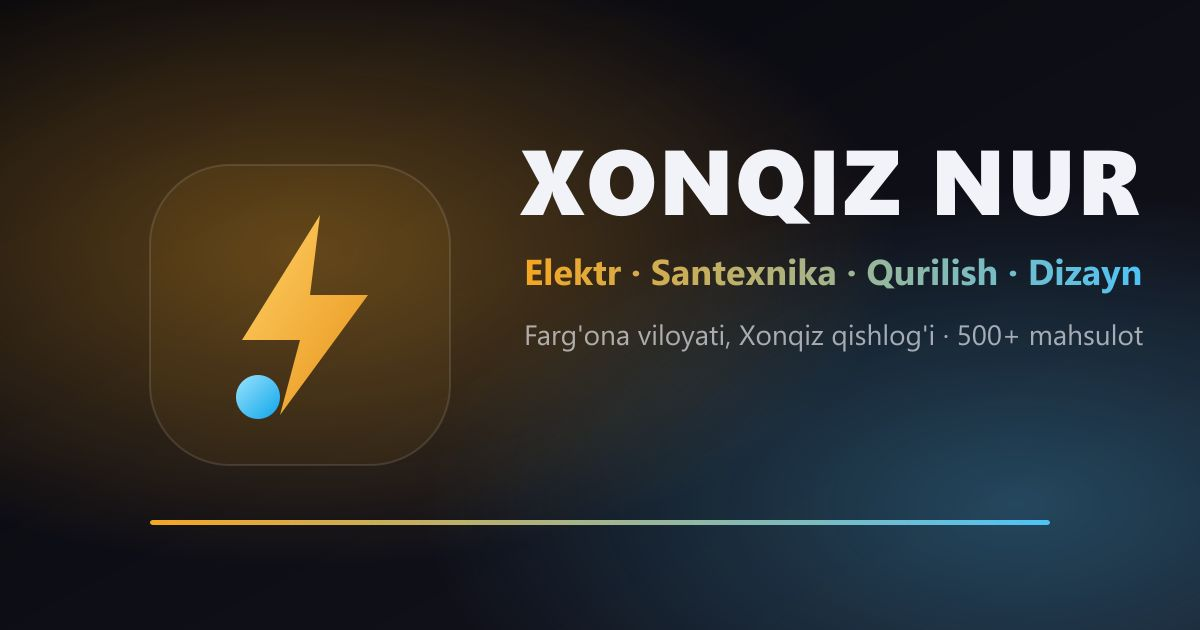
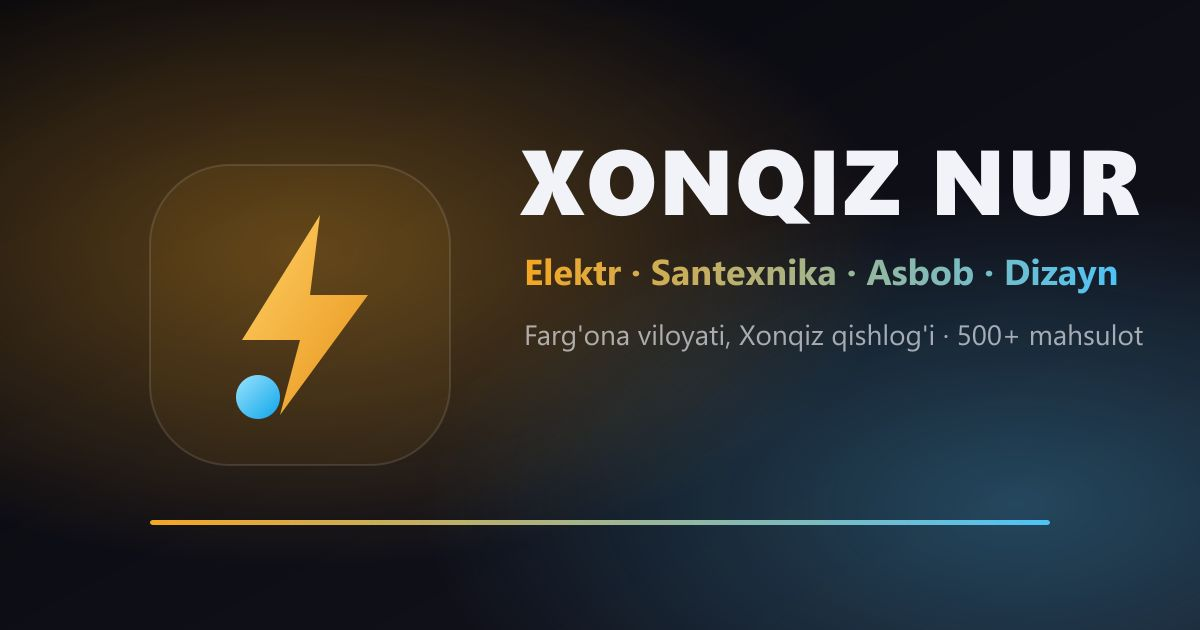
Update copy to 4 categories (drop construction), refresh og-image

Changed region(s): [[0.7092, 0.3921, 0.9558, 0.4825]]

diff --git a/src/app/services/translation.service.ts b/src/app/services/translation.service.ts
@@ -124,15 +124,15 @@ const UZ: Translations = {
   hero: {
     badge: "Farg'ona viloyati, Xonqiz qishlog'i",
     title1: 'Elektr, santexnika,',
-    title2: 'qurilish va dizayn',
+    title2: 'asbob va dizayn',
     title3: '— hammasi bir joyda',
-    desc: "Lyustradan sementgacha, trubadan dizayner chiroqlargacha — Xonqiz Nur biznesingiz va uyingiz uchun ishonchli ta'minot manbai. 5 yo'nalish, 500+ mahsulot turi.",
+    desc: "Lyustradan sementgacha, trubadan dizayner chiroqlargacha — Xonqiz Nur biznesingiz va uyingiz uchun ishonchli ta'minot manbai. 4 yo'nalish, 500+ mahsulot turi.",
     cta: "Biz bilan bog'laning",
     ctaSecondary: "Katalogni ko'rish",
     stats: [
       { value: 2021, suffix: '', label: 'Tashkil etilgan' },
       { value: 500, suffix: '+', label: 'Mahsulot turi' },
-      { value: 5, suffix: '', label: "Yo'nalish" },
+      { value: 4, suffix: '', label: "Yo'nalish" },
     ],
   },
   trust: {
@@ -143,7 +143,7 @@ const UZ: Translations = {
   },
   catalog: {
     title: 'Mahsulot katalogi',
-    subtitle: "5 yo'nalish, 500+ mahsulot turi",
+    subtitle: "4 yo'nalish, 500+ mahsulot turi",
     askCta: "Shu bo'yicha so'rang",
     notFound: 'Kerakli mahsulotni topa olmayapsizmi? Bizga yozing —',
     itemsLabel: 'turkum',
@@ -236,7 +236,7 @@ const UZ: Translations = {
     items: [
       { title: "Optom ta'minot", desc: "Ob'yekt va do'konlar uchun katta hajmda, qulay shartlarda." },
       { title: 'Ishonchli va barqaror', desc: '2021 yildan beri uzluksiz, kafolatli taʻminot.' },
-      { title: 'Keng assortiment', desc: "5 yo'nalish, 500+ mahsulot turi bitta manzilda." },
+      { title: 'Keng assortiment', desc: "4 yo'nalish, 500+ mahsulot turi bitta manzilda." },
       { title: 'Bepul maslahat', desc: 'Tajribali mutaxassislardan texnik yordam va tanlov boʻyicha maslahat.' },
     ],
     inlineCta: "Optom narxlar uchun bog'laning",
@@ -247,7 +247,7 @@ const UZ: Translations = {
     items: [
       { value: 2021, suffix: '', label: 'Tashkil etilgan yil' },
       { value: 500, suffix: '+', label: 'Mahsulot turi' },
-      { value: 5, suffix: '', label: 'Mahsulot yoʻnalishi' },
+      { value: 4, suffix: '', label: 'Mahsulot yoʻnalishi' },
       { value: 100, suffix: '%', label: 'Sifat kafolati' },
     ],
   },
@@ -256,9 +256,9 @@ const UZ: Translations = {
     subtitle: 'Xonqiz Nur — ishonchli hamkoringiz',
     desc1: "2021 yildan buyon Farg'ona viloyati, Xonqiz qishlog'ida elektr va santexnika mahsulotlari sohasida xizmat ko'rsatib kelamiz.",
     desc2: "\"XONQIZ NUR\" xususiy korxonasi sifatida rasmiy ro'yxatdan o'tgan va mahalliy aholi va tadbirkorlarning ishonchli ta'minot manbaiga aylangan.",
-    desc3: "Bugun Xonqiz Nur beshta yo'nalish — elektr, santexnika, qurilish materiallari, asbob-uskunalar va noyob dizaynli chiroqlar bo'yicha 500 dan ortiq mahsulot turini taklif etadi. Mahalliy quruvchilar, pudratchilar va do'konlar uchun ishonchli ulgurji va chakana ta'minotchiga aylandik.",
+    desc3: "Bugun Xonqiz Nur to'rtta yo'nalish — elektr, santexnika, asbob-uskunalar va noyob dizaynli chiroqlar bo'yicha 500 dan ortiq mahsulot turini taklif etadi. Mahalliy quruvchilar, pudratchilar va do'konlar uchun ishonchli ulgurji va chakana ta'minotchiga aylandik.",
     features: [
-      { title: 'Katta assortiment', desc: "500 dan ortiq turdagi mahsulotlar — 5 yo'nalishda" },
+      { title: 'Katta assortiment', desc: "500 dan ortiq turdagi mahsulotlar — 4 yo'nalishda" },
       { title: 'Sifat kafolati', desc: 'Faqat sertifikatli va sifatli tovarlar savdosi' },
       { title: 'Tez xizmat', desc: "Tez va qulay xizmat ko'rsatish" },
     ],
@@ -319,7 +319,7 @@ const UZ: Translations = {
     ],
   },
   footer: {
-    tagline: 'Elektr, santexnika, qurilish va dizayn taʻminoti',
+    tagline: 'Elektr, santexnika, asbob va dizayn taʻminoti',
     rights: 'Barcha huquqlar himoyalangan',
     nav: 'Sahifalar',
     contactTitle: 'Aloqa',
@@ -327,12 +327,12 @@ const UZ: Translations = {
   floating: { call: "Qo'ng'iroq qilish", telegram: 'Telegram orqali yozish' },
   seo: {
     home: {
-      title: "Xonqiz Nur — Elektr, santexnika, qurilish va dizayn mollari | Farg'ona",
-      description: "Xonqiz qishlog'idagi elektr, santexnika, qurilish materiallari, asbob-uskuna va dizayner chiroqlar do'koni. 500+ mahsulot turi. Optom va chakana. Tel [phone redacted].",
+      title: "Xonqiz Nur — Elektr, santexnika, asbob va dizayn mollari | Farg'ona",
+      description: "Xonqiz qishlog'idagi elektr, santexnika, asbob-uskuna va dizayner chiroqlar do'koni. 500+ mahsulot turi. Optom va chakana. Tel [phone redacted].",
     },
     catalog: {
-      title: 'Katalog — Elektr, santexnika, qurilish, asbob va chiroqlar | Xonqiz Nur',
-      description: "5 yo'nalish, 500+ mahsulot turi. Optom narxlar uchun bog'laning. Xonqiz Nur, Farg'ona.",
+      title: 'Katalog — Elektr, santexnika, asbob va chiroqlar | Xonqiz Nur',
+      description: "4 yo'nalish, 500+ mahsulot turi. Optom narxlar uchun bog'laning. Xonqiz Nur, Farg'ona.",
     },
     elektr: {
       title: 'Elektr mahsulotlari — lyustra, kabel, avtomat | Xonqiz Nur',
@@ -370,15 +370,15 @@ const RU: Translations = {
   hero: {
     badge: 'Ферганская область, сел. Хонкиз',
     title1: 'Электрика, сантехника,',
-    title2: 'стройка и дизайн',
+    title2: 'инструмент и дизайн',
     title3: '— всё в одном месте',
-    desc: 'От люстры до цемента, от трубы до дизайнерских светильников — Xonqiz Nur надёжный поставщик для вашего бизнеса и дома. 5 направлений, 500+ видов товаров.',
+    desc: 'От люстры до цемента, от трубы до дизайнерских светильников — Xonqiz Nur надёжный поставщик для вашего бизнеса и дома. 4 направления, 500+ видов товаров.',
     cta: 'Связаться с нами',
     ctaSecondary: 'Смотреть каталог',
     stats: [
       { value: 2021, suffix: '', label: 'Основан' },
       { value: 500, suffix: '+', label: 'Видов товаров' },
-      { value: 5, suffix: '', label: 'Направлений' },
+      { value: 4, suffix: '', label: 'Направлений' },
     ],
   },
   trust: {
@@ -389,7 +389,7 @@ const RU: Translations = {
   },
   catalog: {
     title: 'Каталог товаров',
-    subtitle: '5 направлений, 500+ видов товаров',
+    subtitle: '4 направления, 500+ видов товаров',
     askCta: 'Спросить по этому',
     notFound: 'Не нашли нужный товар? Напишите нам —',
     itemsLabel: 'групп',
@@ -482,7 +482,7 @@ const RU: Translations = {
     items: [
       { title: 'Оптовые поставки', desc: 'Большие объёмы на удобных условиях для объектов и магазинов.' },
       { title: 'Надёжно и стабильно', desc: 'Бесперебойные поставки с гарантией с 2021 года.' },
-      { title: 'Широкий ассортимент', desc: '5 направлений, 500+ видов товаров в одном месте.' },
+      { title: 'Широкий ассортимент', desc: '4 направления, 500+ видов товаров в одном месте.' },
       { title: 'Бесплатная консультация', desc: 'Техпомощь и советы по выбору от опытных специалистов.' },
     ],
     inlineCta: 'Узнать оптовые цены',
@@ -493,7 +493,7 @@ const RU: Translations = {
     items: [
       { value: 2021, suffix: '', label: 'Год основания' },
       { value: 500, suffix: '+', label: 'Видов товаров' },
-      { value: 5, suffix: '', label: 'Направлений' },
+      { value: 4, suffix: '', label: 'Направлений' },
       { value: 100, suffix: '%', label: 'Гарантия качества' },
     ],
   },
@@ -502,9 +502,9 @@ const RU: Translations = {
     subtitle: 'Xonqiz Nur — ваш надёжный партнёр',
     desc1: 'С 2021 года предоставляем услуги в сфере электро- и сантехнических товаров в Ферганской области, сел. Хонкиз.',
     desc2: 'ЧП «XONQIZ NUR» официально зарегистрировано и стало надёжным источником снабжения для местных жителей и предпринимателей.',
-    desc3: 'Сегодня Xonqiz Nur предлагает более 500 видов товаров по пяти направлениям — электрика, сантехника, стройматериалы, инструменты и дизайнерские светильники. Мы стали надёжным оптовым и розничным поставщиком для строителей, подрядчиков и магазинов.',
+    desc3: 'Сегодня Xonqiz Nur предлагает более 500 видов товаров по четырём направлениям — электрика, сантехника, инструменты и дизайнерские светильники. Мы стали надёжным оптовым и розничным поставщиком для строителей, подрядчиков и магазинов.',
     features: [
-      { title: 'Большой ассортимент', desc: 'Более 500 видов товаров — в 5 направлениях' },
+      { title: 'Большой ассортимент', desc: 'Более 500 видов товаров — в 4 направлениях' },
       { title: 'Гарантия качества', desc: 'Только сертифицированные и качественные товары' },
       { title: 'Быстрое обслуживание', desc: 'Быстрый и удобный сервис' },
     ],
@@ -565,7 +565,7 @@ const RU: Translations = {
     ],
   },
   footer: {
-    tagline: 'Электрика, сантехника, стройка и дизайн',
+    tagline: 'Электрика, сантехника, инструмент и дизайн',
     rights: 'Все права защищены',
     nav: 'Страницы',
     contactTitle: 'Контакты',
@@ -573,12 +573,12 @@ const RU: Translations = {
   floating: { call: 'Позвонить', telegram: 'Написать в Telegram' },
   seo: {
     home: {
-      title: 'Xonqiz Nur — электрика, сантехника, стройматериалы и дизайн | Фергана',
-      description: 'Магазин электрики, сантехники, стройматериалов, инструмента и дизайнерских светильников в сел. Хонкиз. 500+ видов товаров. Опт и розница. Тел [phone redacted].',
+      title: 'Xonqiz Nur — электрика, сантехника, инструмент и дизайн | Фергана',
+      description: 'Магазин электрики, сантехники, инструмента и дизайнерских светильников в сел. Хонкиз. 500+ видов товаров. Опт и розница. Тел [phone redacted].',
     },
     catalog: {
-      title: 'Каталог — электрика, сантехника, стройка, инструмент и свет | Xonqiz Nur',
-      description: '5 направлений, 500+ видов товаров. Свяжитесь для оптовых цен. Xonqiz Nur, Фергана.',
+      title: 'Каталог — электрика, сантехника, инструмент и свет | Xonqiz Nur',
+      description: '4 направления, 500+ видов товаров. Свяжитесь для оптовых цен. Xonqiz Nur, Фергана.',
     },
     elektr: {
       title: 'Электротовары — люстры, кабель, автоматы | Xonqiz Nur',
@@ -616,15 +616,15 @@ const EN: Translations = {
   hero: {
     badge: 'Fergana Region, Xonqiz Village',
     title1: 'Electrical, plumbing,',
-    title2: 'construction & design',
+    title2: 'tools & design',
     title3: '— all in one place',
-    desc: 'From chandeliers to cement, from pipes to designer lighting — Xonqiz Nur is your reliable supplier for business and home. 5 worlds, 500+ product types.',
+    desc: 'From chandeliers to cement, from pipes to designer lighting — Xonqiz Nur is your reliable supplier for business and home. 4 worlds, 500+ product types.',
     cta: 'Contact Us',
     ctaSecondary: 'View Catalog',
     stats: [
       { value: 2021, suffix: '', label: 'Founded' },
       { value: 500, suffix: '+', label: 'Product types' },
-      { value: 5, suffix: '', label: 'Worlds' },
+      { value: 4, suffix: '', label: 'Worlds' },
     ],
   },
   trust: {
@@ -635,7 +635,7 @@ const EN: Translations = {
   },
   catalog: {
     title: 'Product Catalog',
-    subtitle: '5 worlds, 500+ product types',
+    subtitle: '4 worlds, 500+ product types',
     askCta: 'Ask about this',
     notFound: "Can't find what you need? Message us —",
     itemsLabel: 'groups',
@@ -728,7 +728,7 @@ const EN: Translations = {
     items: [
       { title: 'Bulk supply', desc: 'Large volumes on convenient terms for sites and shops.' },
       { title: 'Reliable & stable', desc: 'Uninterrupted, guaranteed supply since 2021.' },
-      { title: 'Wide assortment', desc: '5 worlds, 500+ product types in one place.' },
+      { title: 'Wide assortment', desc: '4 worlds, 500+ product types in one place.' },
       { title: 'Free expert advice', desc: 'Technical help and selection advice from experienced specialists.' },
     ],
     inlineCta: 'Ask about bulk pricing',
@@ -739,7 +739,7 @@ const EN: Translations = {
     items: [
       { value: 2021, suffix: '', label: 'Founded' },
       { value: 500, suffix: '+', label: 'Product types' },
-      { value: 5, suffix: '', label: 'Worlds' },
+      { value: 4, suffix: '', label: 'Worlds' },
       { value: 100, suffix: '%', label: 'Quality assured' },
     ],
   },
@@ -748,9 +748,9 @@ const EN: Translations = {
     subtitle: 'Xonqiz Nur — your trusted partner',
     desc1: 'Since 2021, we have been serving the Fergana region in Xonqiz village with electrical and plumbing products.',
     desc2: 'Officially registered as "XONQIZ NUR" private enterprise, we have become a reliable supply source for local residents and entrepreneurs.',
-    desc3: 'Today Xonqiz Nur offers over 500 product types across five worlds — electrical, plumbing, construction materials, tools and designer lighting. We have become a reliable wholesale and retail supplier for builders, contractors and shops.',
+    desc3: 'Today Xonqiz Nur offers over 500 product types across four worlds — electrical, plumbing, tools and designer lighting. We have become a reliable wholesale and retail supplier for builders, contractors and shops.',
     features: [
-      { title: 'Large selection', desc: 'Over 500 product types — across 5 worlds' },
+      { title: 'Large selection', desc: 'Over 500 product types — across 4 worlds' },
       { title: 'Quality assured', desc: 'Only certified and quality-tested goods' },
       { title: 'Fast service', desc: 'Quick and convenient customer service' },
     ],
@@ -811,7 +811,7 @@ const EN: Translations = {
     ],
   },
   footer: {
-    tagline: 'Electrical, plumbing, construction & design supplies',
+    tagline: 'Electrical, plumbing, tools & design supplies',
     rights: 'All rights reserved',
     nav: 'Pages',
     contactTitle: 'Contact',
@@ -819,12 +819,12 @@ const EN: Translations = {
   floating: { call: 'Call', telegram: 'Message on Telegram' },
   seo: {
     home: {
-      title: 'Xonqiz Nur — Electrical, Plumbing & Construction Supplies | Fergana',
-      description: 'Store for electrical, plumbing, construction materials, tools and designer lighting in Xonqiz village. 500+ product types. Wholesale & retail. Tel [phone redacted].',
+      title: 'Xonqiz Nur — Electrical, Plumbing & Tools Supplies | Fergana',
+      description: 'Store for electrical, plumbing, tools and designer lighting in Xonqiz village. 500+ product types. Wholesale & retail. Tel [phone redacted].',
     },
     catalog: {
-      title: 'Catalog — Electrical, Plumbing, Construction, Tools & Lighting | Xonqiz Nur',
-      description: '5 worlds, 500+ product types. Contact us for bulk pricing. Xonqiz Nur, Fergana.',
+      title: 'Catalog — Electrical, Plumbing, Tools & Lighting | Xonqiz Nur',
+      description: '4 worlds, 500+ product types. Contact us for bulk pricing. Xonqiz Nur, Fergana.',
     },
     elektr: {
       title: 'Electrical products — chandeliers, cable, breakers | Xonqiz Nur',

diff --git a/src/index.html b/src/index.html
@@ -2,7 +2,7 @@
 <html lang="uz">
 <head>
   <meta charset="utf-8">
-  <title>Xonqiz Nur — Elektr, santexnika, qurilish va dizayn mollari</title>
+  <title>Xonqiz Nur — Elektr, santexnika, asbob va dizayn mollari</title>
   <base href="/">
   <meta name="viewport" content="width=device-width, initial-scale=1">
   <script>(function(){try{var t=localStorage.getItem('xn-theme');var d=t?t==='dark':matchMedia('(prefers-color-scheme: dark)').matches;document.documentElement.setAttribute('data-theme',d?'dark':'light');}catch(e){}})();</script>